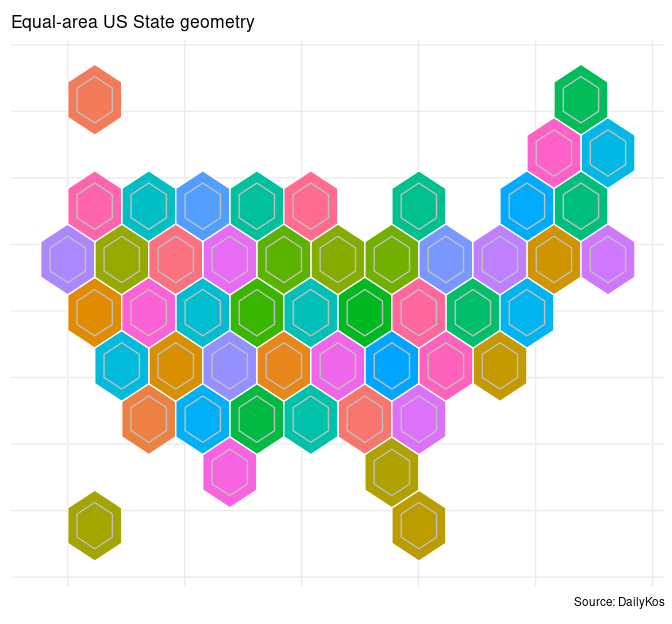
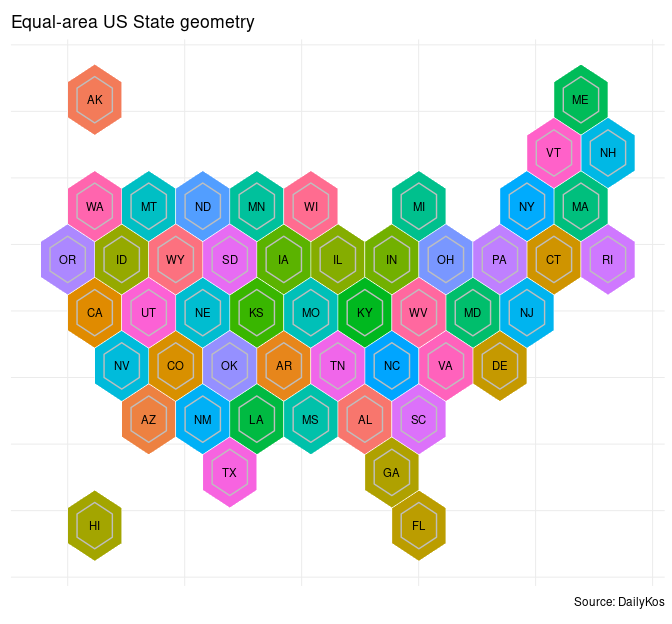
re

diff --git a/README.md b/README.md
@@ -95,22 +95,48 @@ PresElectionResults::pres_by_state |>
 ### Equal-area simple feature geometries – Daily Kos
 
 ``` r
+# devtools::install_github("yutannihilation/ggsflabel")
 library(sf)
 library(ggplot2)
-uspols::xsf_TileOutv10 %>% 
+PresElectionResults::xsf_HexCDv30wm |> 
   ggplot() + 
   geom_sf(aes(fill = state),
-           color = 'white') +
-  geom_sf(data = uspols::xsf_TileInv10, 
-          fill = NA, 
-          show.legend = F, 
-          color="gray", 
-          lwd=.5) +
-  # ggsflabel::geom_sf_text(data = uspols::xsf_TileInv10,
+          color = 'white') +
+
+  # ggsflabel::geom_sf_text(data = xsf_HexCDv30,
   #                         aes(label = state_abbrev), 
   #                         size = 3,
   #                         color='black') +
   # scale_fill_distiller(palette = "RdBu", direction=-1) +
+  theme_minimal()+
+  theme(axis.text.x=element_blank(),
+        axis.text.y=element_blank(),
+        axis.title.x=element_blank(),
+        axis.title.y=element_blank(),
+        legend.position = 'none') +
+labs(title = "Equal-area US Congressional District geometry",
+     caption = "Source: DailyKos")
+```
+
+![](figure-markdown_github/unnamed-chunk-9-1.png)
+
+``` r
+library(sf)
+library(ggplot2)
+PresElectionResults::xsf_TileOutv10 %>% 
+  ggplot() + 
+  geom_sf(aes(fill = state),
+           color = 'white') +
+  geom_sf(data = PresElectionResults::xsf_TileInv10, 
+          fill = NA, 
+          show.legend = F, 
+          color="gray", 
+          lwd=.5) +
+  ggsflabel::geom_sf_text(data = PresElectionResults::xsf_TileInv10,
+                          aes(label = state_abbrev),
+                          size = 3,
+                          color='black') +
+  ##scale_fill_distiller(palette = "RdBu", direction=-1) +
   theme_minimal()+
   theme(axis.text.x=element_blank(),
         axis.text.y=element_blank(),
